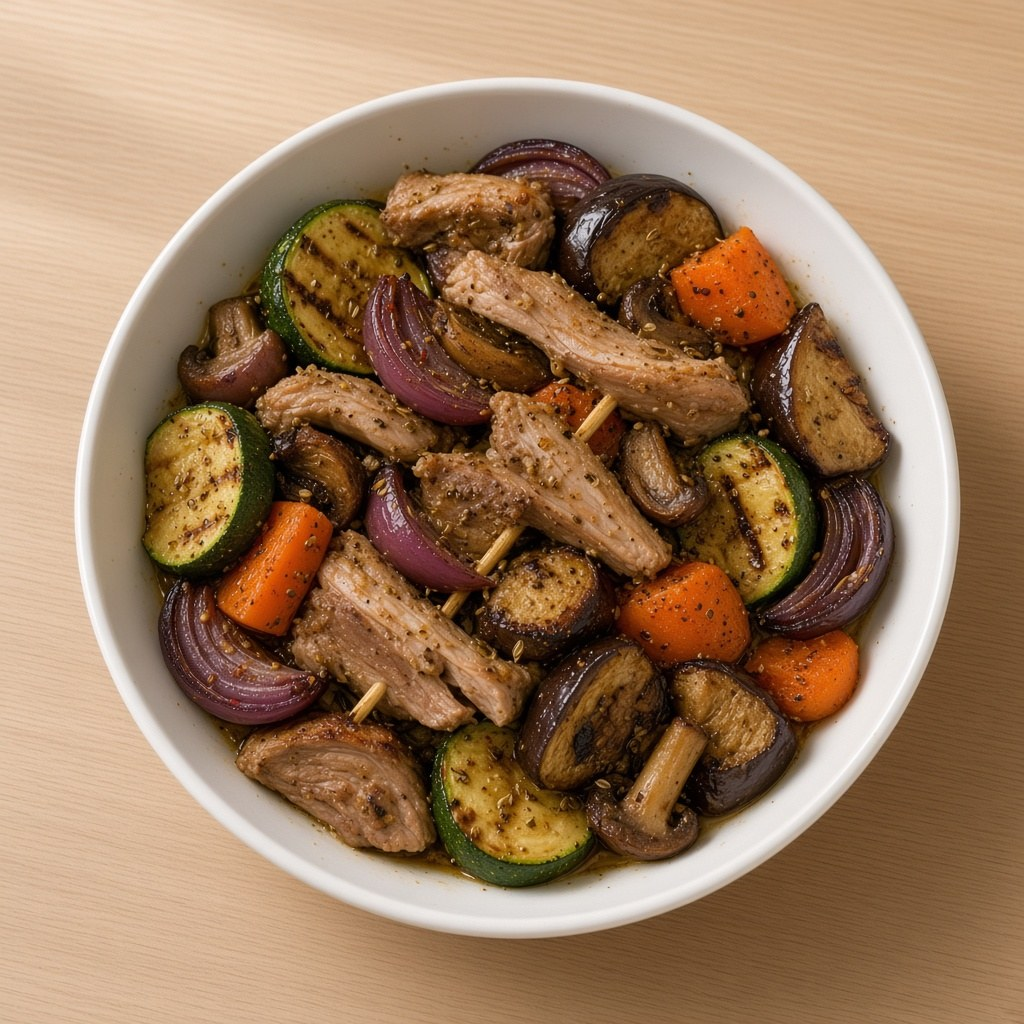
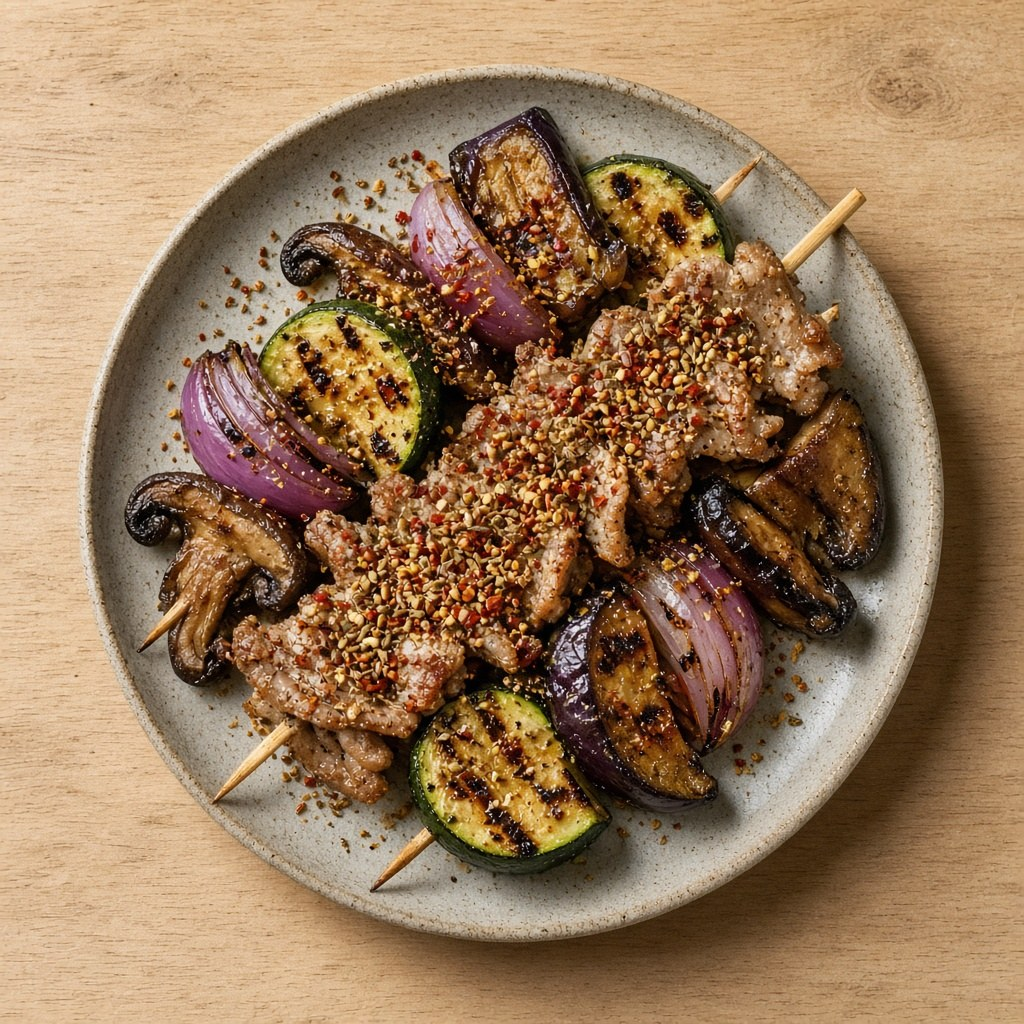
fix: rotate distinct dinner heroes; refresh buchujang and lamb-skewer
Stop collapsing pattern sauces onto sauces[0], dedupe home swap by
resolved JPG, and fall back missing prebake stems to the pattern base
so 「바꾸기」 always changes the photo. Replace steam-buchujang and
roast-lamb-skewer assets with clearer chive-steam and cumin-skewer shots.

diff --git a/tests/dinner-home.test.js b/tests/dinner-home.test.js
@@ -5,6 +5,7 @@ import {
   formatDinnerOfferTitle,
   listDinnerCandidates,
   uniqueByPatternSauce,
+  uniqueDinnerSwapList,
   STARTER_PROTEINS,
 } from '../src/domain/dinnerHome.js';
 import { resolveDinnerVisual } from '../src/domain/dinnerVisual.js';
@@ -119,17 +120,38 @@ test('roast/steam catalogs expose garlic sauces for chicken stock', () => {
 
 test('starter swap list is unique pattern×sauce photos including shabu', () => {
   const state = seedState(createEmptyState());
-  const swap = uniqueByPatternSauce(listDinnerCandidates(state));
-  const files = new Set(
-    swap.map((c) => (resolveDinnerVisual(state, c).imageSrc || '').replace(/\?.*$/, '').split('/').pop()),
+  const swap = uniqueDinnerSwapList(state, listDinnerCandidates(state));
+  const files = swap.map(
+    (c) => (resolveDinnerVisual(state, c).imageSrc || '').replace(/\?.*$/, '').split('/').pop(),
   );
-  assert.ok(files.size >= 10, `expected many prebakes in rotation, got ${[...files]}`);
-  assert.ok([...files].some((f) => f.startsWith('shabu')));
+  assert.equal(files.length, new Set(files).size, `duplicate hero files in swap: ${files}`);
+  assert.ok(files.length >= 10, `expected many prebakes in rotation, got ${files}`);
+  assert.ok(files.some((f) => f.startsWith('shabu')));
   assert.ok(swap.some((c) => c.patternName === '샤브샤브'));
   assert.ok(swap.every((c) => c.title === c.patternName));
   assert.deepEqual(
     STARTER_PROTEINS,
     ['닭다리살', '연어', '고등어', '우삼겹', '대패삼겹살', '목살'],
+  );
+});
+
+test('swap does not collapse unrelated patterns onto sauces[0]', () => {
+  const state = baseState([{ id: 'i1', name: '목살', status: 'enough' }]);
+  // Mimic broken catalog: sauces exist but forPatterns empty → old code used sauces[0].
+  state.sauces = [
+    { id: 's-bad', name: '부추장', forPatterns: [], visualKey: 'buchujang' },
+    { id: 's-ok', name: '간장마늘 양념', forPatterns: ['야채구이'], visualKey: 'garlic-soy' },
+  ];
+  state.cookingPatterns = [
+    { id: 'p-roast', name: '야채구이', method: 'roast', effort: 'medium' },
+    { id: 'p-steam', name: '야채찜', method: 'steam', effort: 'medium' },
+  ];
+  const list = listDinnerCandidates(state);
+  assert.ok(list.some((c) => c.patternName === '야채구이' && c.sauceName === '간장마늘 양념'));
+  assert.ok(list.some((c) => c.patternName === '야채찜' && !c.sauceName));
+  assert.equal(
+    list.some((c) => c.patternName === '야채구이' && c.sauceName === '부추장'),
+    false,
   );
 });
 

diff --git a/src/domain/dinnerHome.js b/src/domain/dinnerHome.js
@@ -9,6 +9,7 @@ import {
   scoreDinnerCandidate,
   compareDinnerScores,
 } from './dinnerRank.js';
+import { resolveDinnerVisual, dinnerImageFile } from './dinnerVisual.js';
 
 const PROTEIN_RE =
   /닭다리|닭고기|닭|우삼겹|대패|목살|삼겹|돼지|소고기|연어|고등어|삼치|두부|고기|계란|달걀/;
@@ -69,8 +70,8 @@ export function buildDinnerHomeOffer(state, opts = {}) {
   }
 
   const ranked = listDinnerCandidates(state);
-  // 「바꾸기」는 히어로 사진(패턴×소스) 단위 — 같은 사진에 단백질만 다른 행은 접는다.
-  const candidates = uniqueByPatternSauce(ranked);
+  // 「바꾸기」는 히어로 사진 단위 — 패턴×소스 접은 뒤, 같은 JPG로 떨어지는 후보도 제거.
+  const candidates = uniqueDinnerSwapList(state, ranked);
   if (!candidates.length) {
     return {
       status: 'empty',
@@ -266,11 +267,13 @@ export function listDinnerCandidates(state) {
         ? sauces.filter((s) => (s.forPatterns || []).includes(pattern.name))
         : [];
       const preferred = pickPreferredSauce(saucePool, source.name);
+      // Never fall back to sauces[0] (e.g. 부추장) for unrelated patterns —
+      // that collapsed swap photos onto one sauce and 404 prebakes (roast-buchujang).
       const sauceChoices = saucePool.length
         ? preferred
           ? [preferred, ...saucePool.filter((s) => s.id !== preferred.id)]
           : saucePool
-        : [sauces[0] || null];
+        : [null];
 
       for (const sauce of sauceChoices) {
         const recent = recentProteins.has(normalize(source.name));
@@ -365,6 +368,26 @@ export function uniqueByPatternSauce(candidates) {
     if (!prev || betterPatternPairing(c, prev)) seen.set(key, c);
   }
   return [...seen.values()].sort(compareDinnerScores);
+}
+
+/**
+ * Home 「바꾸기」 list: one row per distinct hero JPG.
+ * Pattern×sauce first, then drop rows that resolve to an already-seen file
+ * (so the button always changes the photo).
+ */
+export function uniqueDinnerSwapList(state, candidates) {
+  const byPatternSauce = uniqueByPatternSauce(candidates);
+  const seenFile = new Set();
+  const out = [];
+  for (const c of byPatternSauce) {
+    const file = dinnerImageFile(resolveDinnerVisual(state, c).imageSrc);
+    if (file) {
+      if (seenFile.has(file)) continue;
+      seenFile.add(file);
+    }
+    out.push(c);
+  }
+  return out.sort(compareDinnerScores);
 }
 
 function proteinFitScore(proteinName, patternName) {

diff --git a/src/domain/dinnerVisual.js b/src/domain/dinnerVisual.js
@@ -12,6 +12,8 @@ const SHABU_RE = /샤브/;
 /** sauce visualKey or name → file stem under public/dinner/ */
 const SAUCE_KEYS = [
   { match: /부추/, key: 'buchujang' },
+  // More specific before bare 참깨 (찜 「참깨 간장」≠ 샤브 「참깨」).
+  { match: /참깨\s*간장|깨\s*간장/, key: 'sesame-soy' },
   { match: /참깨/, key: 'sesame' },
   { match: /겨자\s*간장/, key: 'mustard-soy' },
   { match: /스리라차/, key: 'sriracha' },
@@ -24,6 +26,34 @@ const SAUCE_KEYS = [
   // garlic-soy shared by 찜「마늘 간장」and 구이「간장마늘」
   { match: /마늘\s*간장|간장\s*마늘|마늘간장|간장마늘/, key: 'garlic-soy' },
 ];
+
+/** Known prebaked heroes — unknown stems fall back to pattern-only JPG. */
+const PREBAKED_FILES = new Set([
+  'steam.jpg',
+  'steam-buchujang.jpg',
+  'steam-garlic-soy.jpg',
+  'steam-sriracha.jpg',
+  'steam-sesame-soy.jpg',
+  'steam-mustard-soy.jpg',
+  'roast.jpg',
+  'roast-garlic-soy.jpg',
+  'roast-tomato-onion.jpg',
+  'roast-lamb-skewer.jpg',
+  'roast-honey-mustard.jpg',
+  'roast-nutmeg.jpg',
+  'shabu.jpg',
+  'shabu-sesame.jpg',
+  'shabu-ponzu.jpg',
+]);
+
+/** @param {string|null|undefined} imageSrc */
+export function dinnerImageFile(imageSrc) {
+  const raw = String(imageSrc || '');
+  if (!raw) return '';
+  const path = raw.split('?')[0];
+  const file = path.split('/').pop() || '';
+  return file;
+}
 
 /**
  * @param {object} state
@@ -95,12 +125,14 @@ function prebakedAsset(patternName, method, visualKey) {
           ? 'roast'
           : null;
   if (!kind) return null;
+  let file = `${kind}.jpg`;
   if (visualKey) {
-    // Steam/roast sesame sauces historically used sesame-soy filename.
-    if ((kind === 'steam' || kind === 'roast') && visualKey === 'sesame') {
-      return `${kind}-sesame-soy.jpg`;
-    }
-    return `${kind}-${visualKey}.jpg`;
+    // Normalize sesame keys onto files that exist per pattern.
+    let key = visualKey;
+    if (key === 'sesame' && (kind === 'steam' || kind === 'roast')) key = 'sesame-soy';
+    if (key === 'sesame-soy' && kind === 'shabu') key = 'sesame';
+    file = `${kind}-${key}.jpg`;
   }
-  return `${kind}.jpg`;
+  if (!PREBAKED_FILES.has(file)) return `${kind}.jpg`;
+  return file;
 }

diff --git a/tests/dinner-visual.test.js b/tests/dinner-visual.test.js
@@ -62,7 +62,21 @@ test('sauceKeyFromName maps catalog names', () => {
   assert.equal(sauceKeyFromName('토마토 양파 소스'), 'tomato-onion');
   assert.equal(sauceKeyFromName('양꼬치 양념'), 'lamb-skewer');
   assert.equal(sauceKeyFromName('폰즈 소스'), 'ponzu');
+  assert.equal(sauceKeyFromName('참깨 간장 소스'), 'sesame-soy');
+  assert.equal(sauceKeyFromName('참깨 소스'), 'sesame');
   assert.equal(sauceKeyFromName('없는소스'), null);
+});
+
+test('missing prebake stem falls back to pattern-only file', () => {
+  const v = resolveDinnerVisual(
+    {
+      cookingPatterns: [{ id: 'p1', name: '야채구이', method: 'roast' }],
+      sauces: [{ id: 's1', name: '부추장', visualKey: 'buchujang', forPatterns: ['야채구이'] }],
+    },
+    { patternName: '야채구이', sauceName: '부추장' },
+  );
+  // roast-buchujang.jpg is not shipped — use roast.jpg instead of a 404.
+  assert.match(v.imageSrc, /dinner\/roast\.jpg\?v=/);
 });
 
 test('shortSauceName strips parenthetical notes', () => {

diff --git a/src/domain/dinnerRank.js b/src/domain/dinnerRank.js
@@ -95,10 +95,16 @@ export function scoreDinnerCandidate(candidate, prefs = {}) {
   };
 }
 
-/** Stable sort: higher total first; tie-break by title. */
+/** Stable sort: higher total first; tie-break pattern → sauce → protein → title. */
 export function compareDinnerScores(a, b) {
   const diff = (b.score?.total ?? 0) - (a.score?.total ?? 0);
   if (Math.abs(diff) > 1e-9) return diff > 0 ? 1 : -1;
+  const byPattern = String(a.patternName || '').localeCompare(String(b.patternName || ''), 'ko');
+  if (byPattern) return byPattern;
+  const bySauce = String(a.sauceName || '').localeCompare(String(b.sauceName || ''), 'ko');
+  if (bySauce) return bySauce;
+  const byProtein = String(a.protein || '').localeCompare(String(b.protein || ''), 'ko');
+  if (byProtein) return byProtein;
   return String(a.title || '').localeCompare(String(b.title || ''), 'ko');
 }
 

diff --git a/docs/DECISIONS.md b/docs/DECISIONS.md
@@ -122,6 +122,7 @@
 변경: 2026-11-11 — 넛맥 시즈닝 기본 레시피는 **올리브유**(버터 없음). 레거시 `넛맥 버터 시즈닝` 이름은 state v9에서 호환 마이그레이션. 단백질별 프리베이크 매트릭스는 채택하지 않음(패턴×소스 사진 + 곁들임 텍스트).
 변경: 2026-11-11 — 저녁 패턴에 **샤브샤브**(method `shabu`) 추가. 홈 「바꾸기」는 패턴×소스(사진) 단위, 단백질은 곁들임. 스타터 단백질: 닭다리살·연어·고등어·우삼겹·대패삼겹살·목살.
 변경: 2026-11-11 — 파괴적 로컬 점검은 URL `?sandbox&device=작업이름`으로 상태·defer-auth·auth·cloud cache 키를 접두사 격리한다. `device`만 있고 `sandbox` 없으면 비활성. 운영 공용 계정 E2E는 하지 않고 격리 QA 계정 + 체크리스트(`docs/SYNC_E2E_CHECKLIST.md`)로 점검한다.
+변경: 2026-11-11 — 홈 「바꾸기」는 **히어로 JPG가 실제로 바뀌는** 후보만 순회(패턴×소스 접기 + 동일 파일 제거). 패턴에 맞는 `forPatterns` 소스가 없으면 `sauces[0]`으로 떨어지지 않는다(404·사진 고착 원인). 없는 prebake stem은 패턴 기본 JPG로 폴백.
 
 원칙 vs 미확정 분리: [DESIGN_SYSTEM.md](DESIGN_SYSTEM.md).
 

diff --git a/docs/PROJECT_GUIDE.md b/docs/PROJECT_GUIDE.md
@@ -5,9 +5,9 @@
 
 ## 현재 시작점 (2026-11-11 Asia/Seoul)
 
-**방금 완료:** `?sandbox&device=` 저장 격리 구현 · 실계정/다기기 sync 점검 체크리스트(`docs/SYNC_E2E_CHECKLIST.md`). CI live QA(A열)는 기존처럼 격리 계정으로 통과 기록.
+**방금 완료:** 부추장·양꼬치 히어로 교체 · 「바꾸기」가 같은 JPG/잘못된 sauces[0] 폴백으로 몇 장만 돌던 문제 수정.
 
-**지금 작업:** _(없음 — P1 sandbox/sync 점검 문서화 완료)_
+**지금 작업:** _(없음)_
 
 **다음 행동 (한 가지):** 체크리스트 B열(브라우저 2·sandbox 레인) 수동 1회, 또는 P1-3 설계(취향 필드 / 한 끼 예산 배지) 중 승인된 항목.
 
